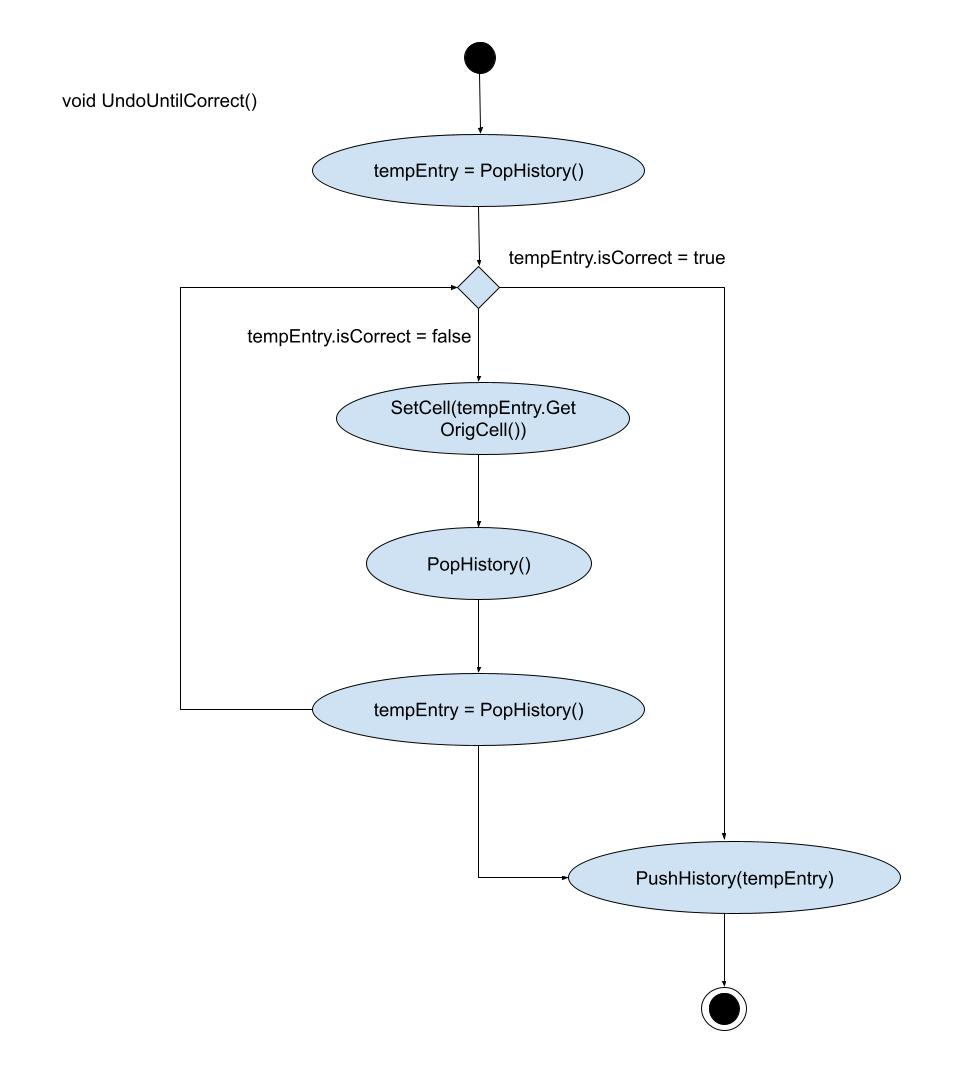
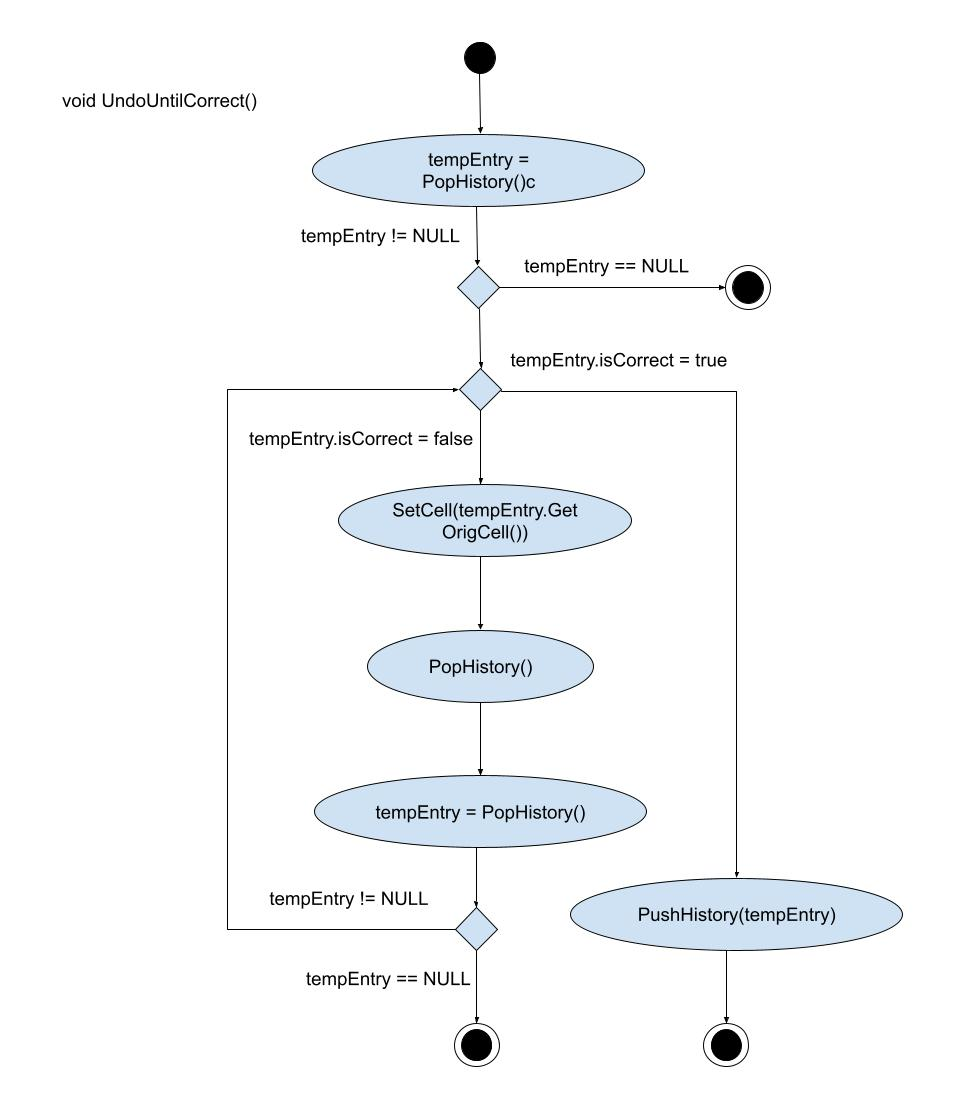
Edited UndoUntilCorrect code/ activity diagram

diff --git a/Code Contributions/Sarah/GameEngine.cpp b/Code Contributions/Sarah/GameEngine.cpp
@@ -20,17 +20,22 @@ void GameEngine::UndoUntilCorrect() {
     // pop the latest entry in history 
     Entry tempEntry = history.PopHistory();
 
-    // if isCorrect() == false then go into while loop
-    while (!tempEntry.isCorrect()) {
-        // set the cell back to the original cell
-        puzzle.SetCell(tempEntry.GetOrigCell());
-        // pop the SetCell of the previous line - check SetCell implementation in Puzzle
-        history.PopHistory();
-        // pop another entry from history to check 
-        tempEntry = history.PopHistory();
+    if (tempEntry != NULL) {
+        // if isCorrect() == false then go into while loop
+        while (!tempEntry.isCorrect()) {
+            // set the cell back to the original cell
+            puzzle.SetCell(tempEntry.GetOrigCell());
+            // pop the SetCell of the previous line - check SetCell implementation in Puzzle
+            history.PopHistory();
+            // pop another entry from history to check 
+            tempEntry = history.PopHistory();
+            
+            if (tempEntry == NULL) {
+                exit;
+            }
+        }
+        // if isCorrect() == true then it will push back the history and exit
+        history.PushHistory(tempEntry);
     }
-
-    // if isCorrect() == true then it will push back the history and exit
-    history.PushHistory(tempEntry);
 }
 
